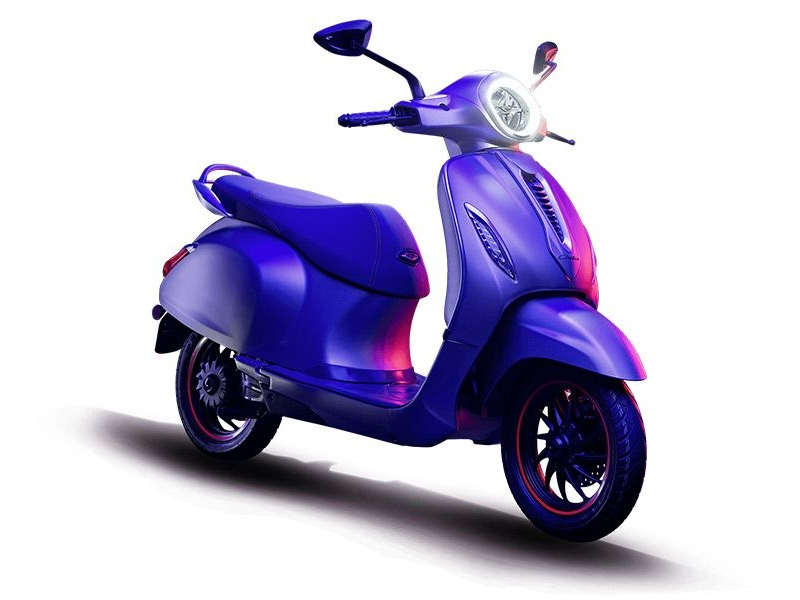
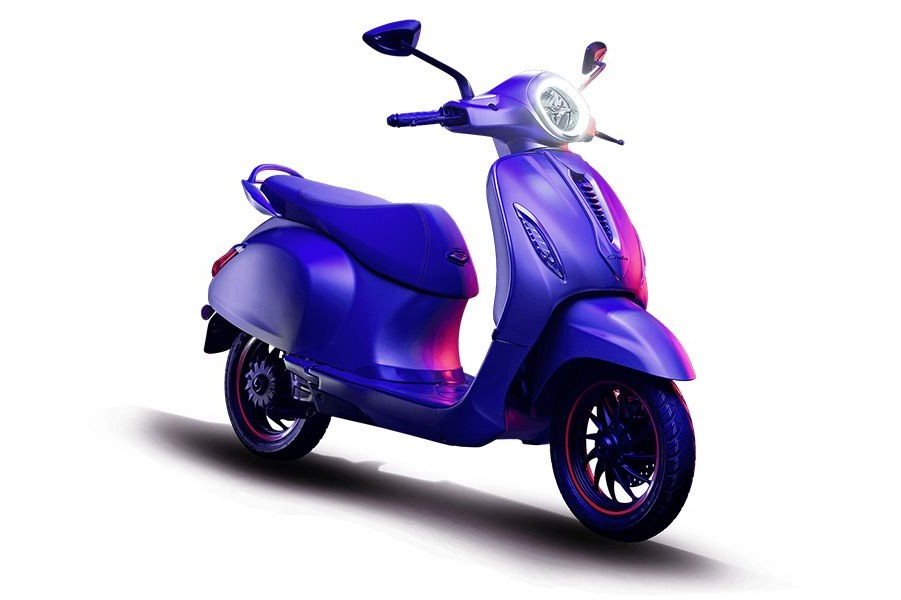
Updated content

diff --git a/templates/card.html b/templates/card.html
@@ -13,10 +13,10 @@
     </div>
     <div class="col">
       <div class="card" style="margin-top:12px">
-        <img src="/static/glance.jpg" class="card-img-top" alt="...">
+        <img src="/static/chetak.jpg" class="card-img-top" alt="...">
         <div class="card-body">
-          <h5 class="card-title">Ather 450x</h5>
-          <h6 class="card-text">The Ather 450X is a premium electric scooters that offers modern tech and features backed up with good performance.</h6>
+          <h5 class="card-title">Bajaj Chetak Urbane 2024</h5>
+          <h6 class="card-text">Bajaj Chetak Urbane E-Scooter Launched at a Price of Rs 1.15 Lakh. Will get two varients - Standard and Tecpac.</h6>
           <a href="/news" class="btn btn-outline-success">Read More...</a>
         </div>
       </div>
